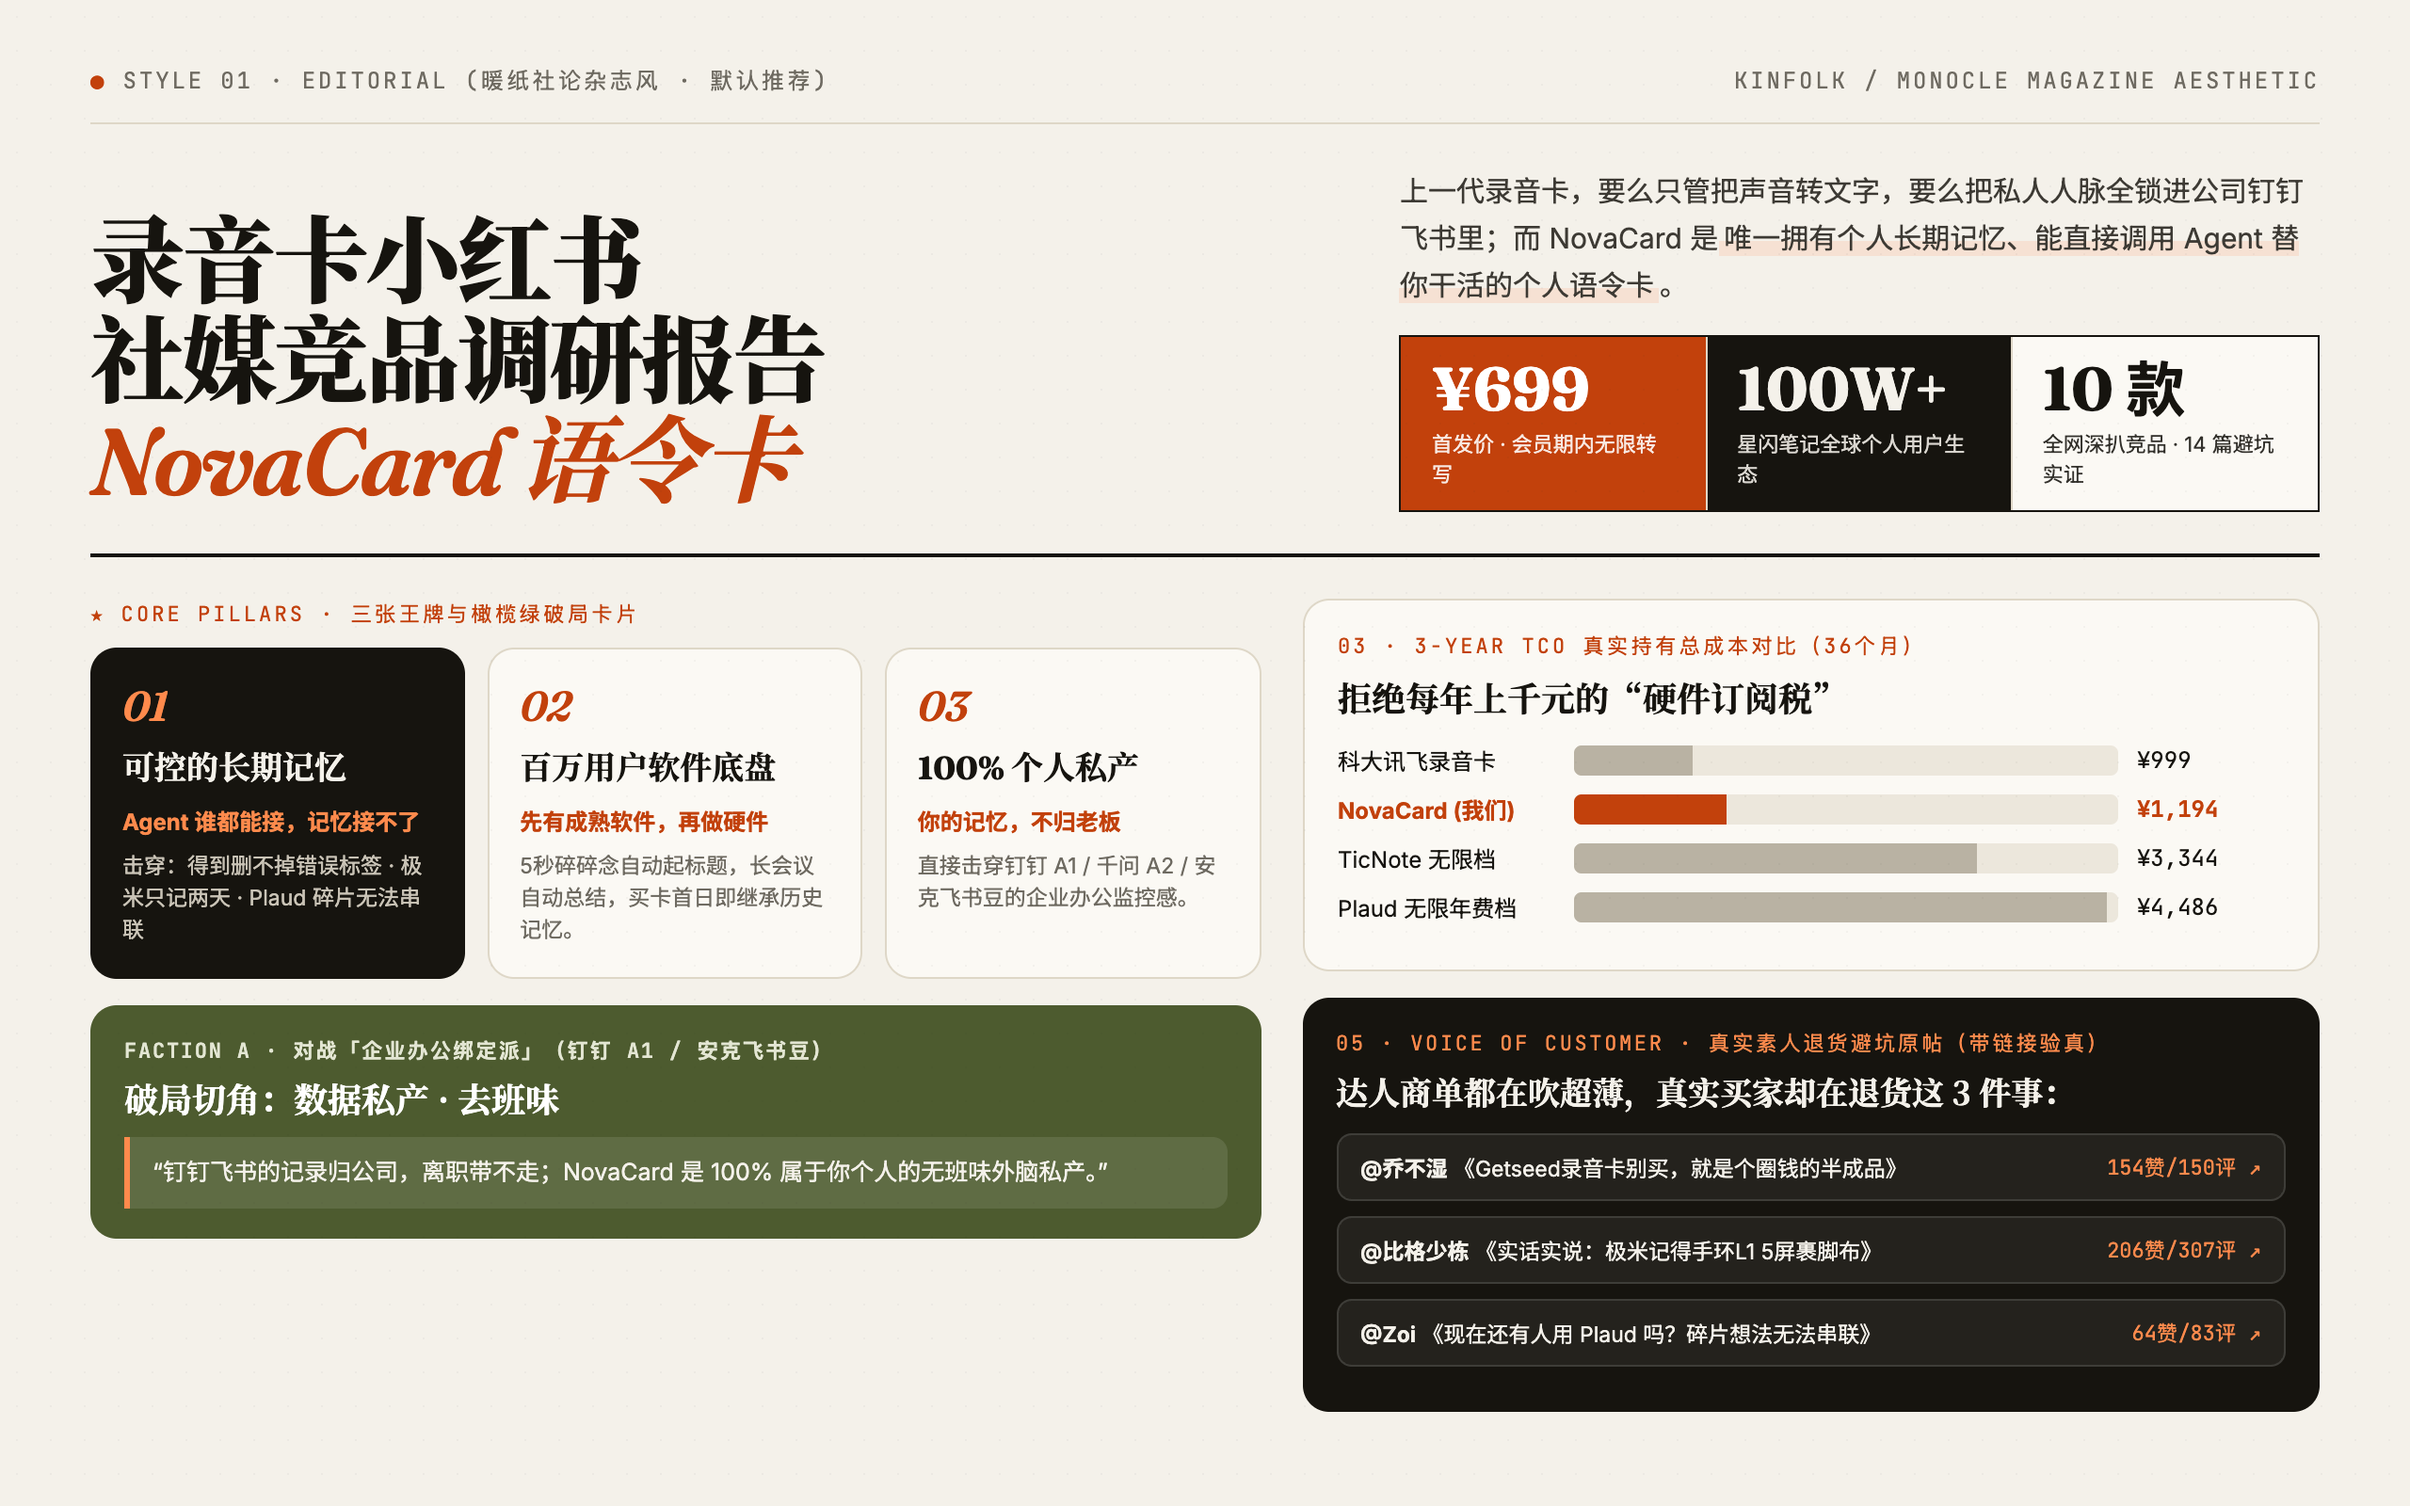
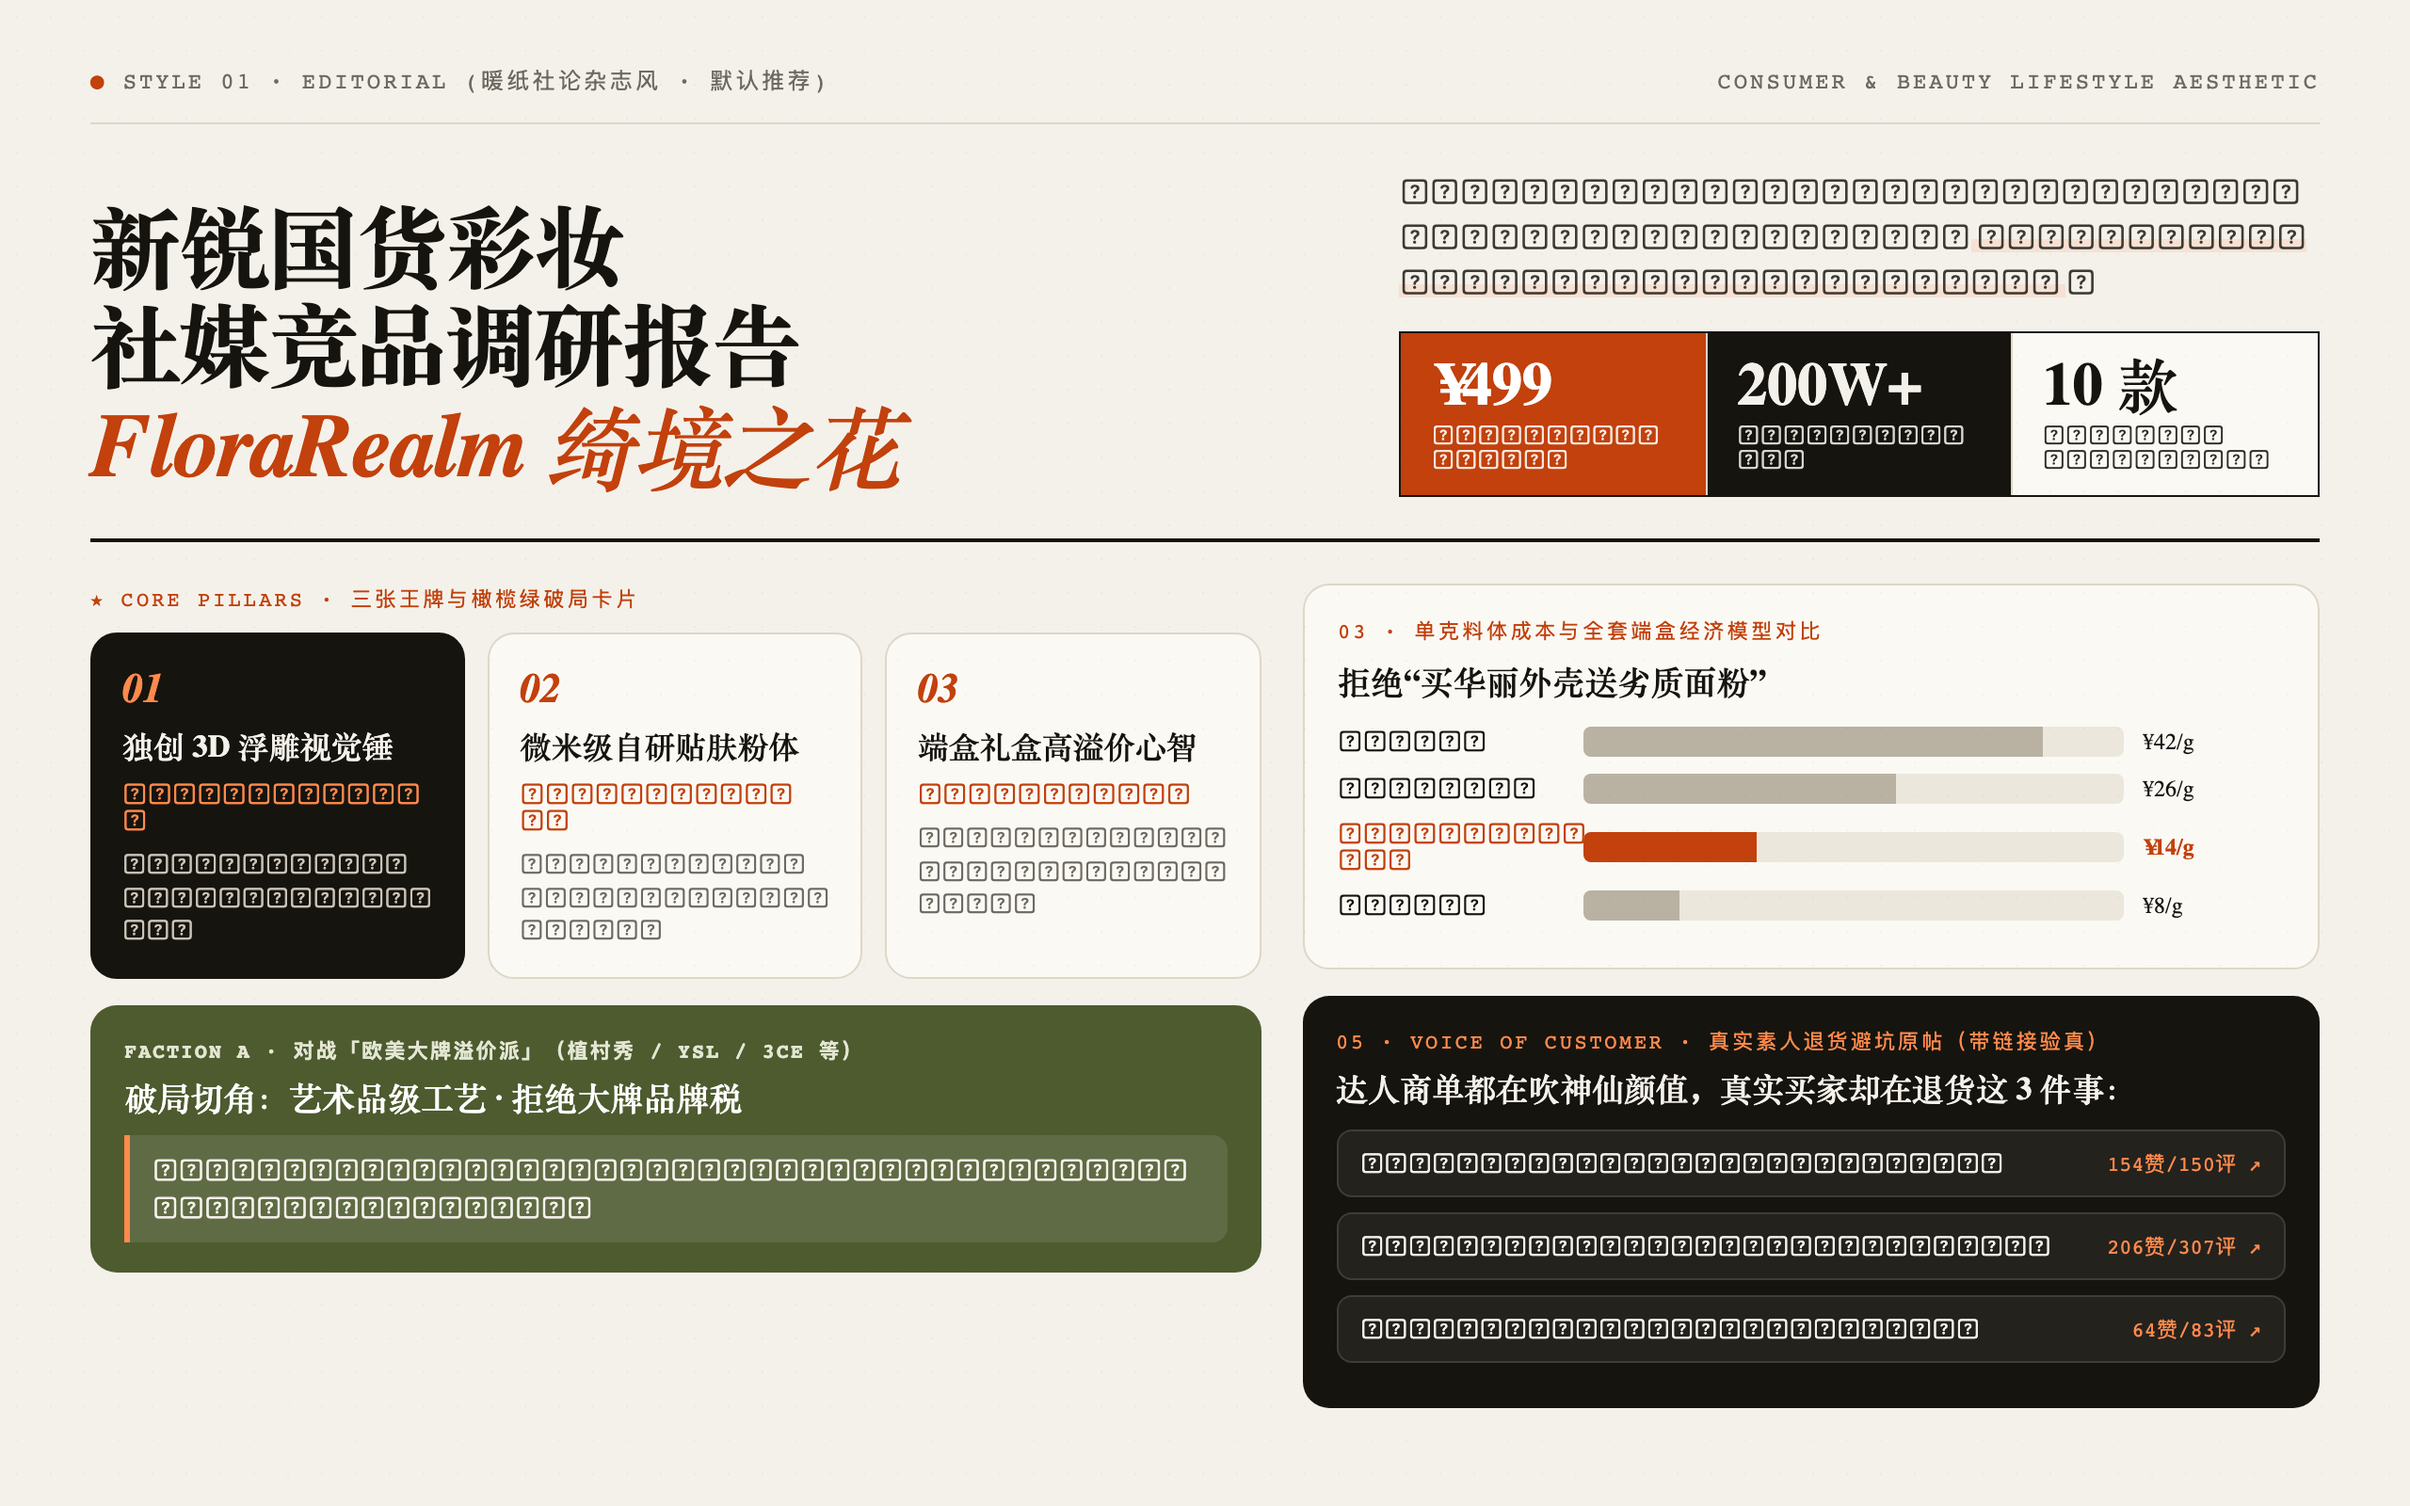
docs: switch style preview mockups and cases to mainstream consumer goods & beauty D2C (FloraRealm)

diff --git a/resources/dribbble-style-picker.html b/resources/dribbble-style-picker.html
@@ -97,7 +97,7 @@
     <div>
       <div class="eyebrow">Social Competitor Warroom · 5 Dribbble Visual Systems</div>
       <h1>选择您的竞品报告视觉设计风格（5 选 1）</h1>
-      <p>5 套风格共享完全相同的高密度内核（三张王牌 + 四大派别进攻话术 + 5大验证打法 + 3年TCO算账 + 真实素人避坑原帖直达链接），仅视觉皮肤不同。点击任意卡片即可选定并复制风格指令。</p>
+      <p>5 套风格共享完全相同的高密度内核（三张王牌 + 四大派别进攻话术 + 5大验证打法 + 单克成本/全套礼盒算账 + 真实素人避坑原帖直达链接），仅视觉皮肤不同。点击任意卡片即可选定并复制风格指令。</p>
     </div>
   </header>
 

diff --git a/README.md b/README.md
@@ -38,7 +38,7 @@
 
 ## 🎨 内置 5 套 Dribbble 殿堂级视觉风格（先看预览图，5 选 1 生成）
 
-生成 HTML 报告前，Skill 会直接向你展示以下 **5 张高分辨率风格预览图**（也可双击打开 [`resources/dribbble-style-picker.html`](resources/dribbble-style-picker.html) 实时交互预览），由你**任选 1 种**生成独立单文件 HTML：
+生成 HTML 报告前，Skill 会直接向你展示以下 **5 张高分辨率风格预览图**（以下以大众消费品/新锐美妆个护《FloraRealm 绮境之花》实战拆解为例，也可双击打开 [`resources/dribbble-style-picker.html`](resources/dribbble-style-picker.html) 实时交互预览），由你**任选 1 种**生成独立单文件 HTML：
 
 | 风格代码 | 风格名称 | 视觉基因与排版骨架 | 最适合场景 |
 | :--- | :--- | :--- | :--- |
